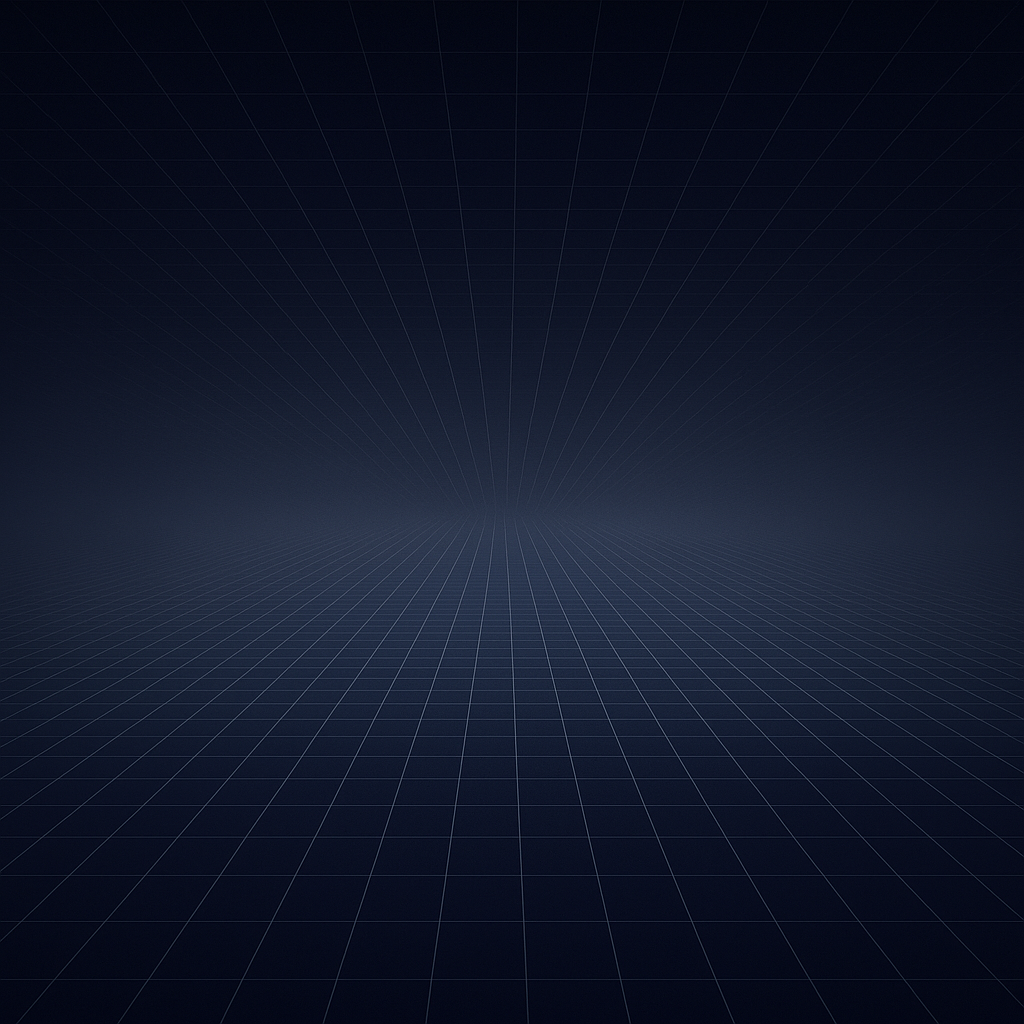
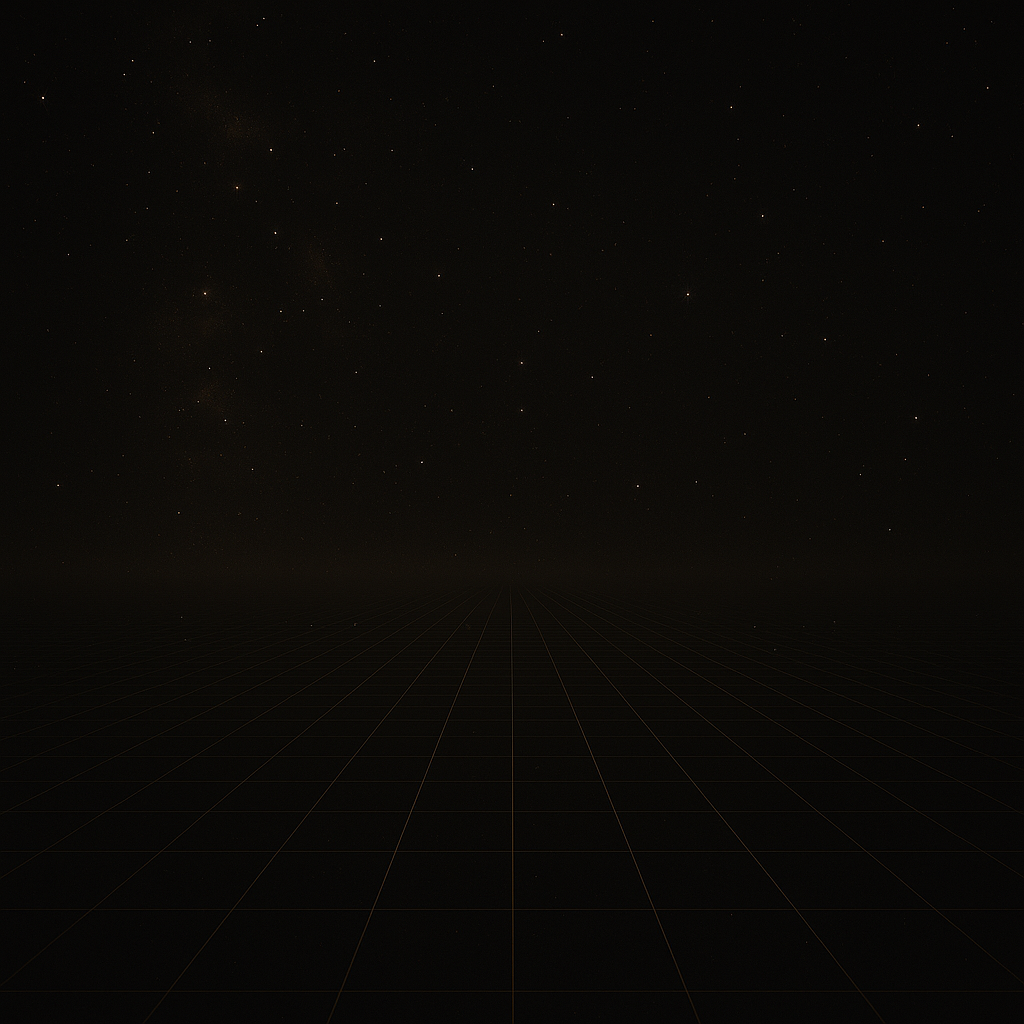
minor fix: settings(bg change) added

diff --git a/ui/Modal/setting-modal.tsx b/ui/Modal/setting-modal.tsx
@@ -1,15 +1,28 @@
 import { forwardRef, useImperativeHandle, useState } from "react";
 import { ModalRef } from "@/ui/Modal/modal.type";
 import { useModal } from "@/ui/Modal/modal.hook";
+import { useBgContext } from "@/ui/Components/context/bg-context";
+import clsx from "clsx";
+import Image from "next/image";
 
 export type PSettingModal = {
   isFirst: boolean;
 };
 
+const BgDescriptions = [
+  "Default",
+  "Purple Grid",
+  "Dark Universe",
+  "Purple Universe",
+  "Purple Spacial Grid",
+  "Red Universe",
+];
+
 const SettingModal = forwardRef<ModalRef, PSettingModal>(({ isFirst }, ref) => {
   const [isOpen, setIsOpen] = useState(false);
   const { closeModal } = useModal("SettingModal" as const);
   const [isClosing, setIsClosing] = useState(false);
+  const { setBgState, bgState } = useBgContext();
   const handleClose = () => {
     setIsClosing(true);
     setTimeout(() => {
@@ -30,22 +43,50 @@ const SettingModal = forwardRef<ModalRef, PSettingModal>(({ isFirst }, ref) => {
   return (
     isFirst && (
       <div
-        className={`fixed inset-0 z-50 bg-black/40 flex justify-center items-center ${isClosing && "animate-fade-out"}`}
+        className={`fixed inset-0 z-50 bg-transparent flex justify-center items-center ${isClosing && "animate-fade-out"}`}
         onClick={handleClose}
       >
         <div
-          className={`relative bg-gray-50 rounded-lg w-3/4 h-3/4 flex gap-4 text-black ${
+          className={`relative bg-white/10 backdrop-blur-md border border-white/20 shadow-xl rounded-lg w-3/4 flex gap-4 text-white ${
             isClosing ? "animate-scale-out" : "animate-scale-in"
           }`}
           onClick={(e) => e.stopPropagation()}
         >
           <button
             onClick={handleClose}
-            className="absolute cursor-pointer top-4 right-4 text-gray-500 hover:text-black dark:text-gray-400 dark:hover:text-white text-xl font-bold"
+            className="absolute cursor-pointer top-2 right-4 text-gray-500 hover:text-white text-xl font-bold"
             aria-label="Close"
           >
             ×
           </button>
+          <div className="flex flex-col w-full h-full p-6">
+            <h2 className="text-xl font-semibold mb-4">배경화면 선택</h2>
+            <div className="overflow-x-auto whitespace-nowrap space-x-4 flex">
+              {[0, 1, 2, 3, 4, 5].map((bg, index) => (
+                <div
+                  key={index}
+                  className={clsx(
+                    "inline-block w-48 h-28 rounded-lg overflow-hidden cursor-pointer border border-transparent hover:border-white transition-all relative",
+                    { "border-white": index === bgState },
+                  )}
+                  onClick={() => {
+                    setBgState(index);
+                  }}
+                >
+                  <Image
+                    src={`/grid-bg${bg}.png`}
+                    alt={`Background ${index + 1}`}
+                    width={400}
+                    height={300}
+                    className="w-full h-full object-cover"
+                  />
+                  <p className="text-white bg-black/40 px-2 py-1 text-sm absolute bottom-2 left-2 rounded">
+                    {BgDescriptions[index]}
+                  </p>
+                </div>
+              ))}
+            </div>
+          </div>
         </div>
       </div>
     )

diff --git a/ui/providers.tsx b/ui/providers.tsx
@@ -8,6 +8,7 @@ import { ModalProvider } from "@/ui/Modal/modal-context.provider";
 import { FolderRefProvider } from "@/ui/Components/context/folder-ref-context";
 import { NavContextProvider } from "@/ui/Components/context/nav-context";
 import { LoadingProvider } from "@/ui/Components/context/loading-context";
+import { BgContextProvider } from "@/ui/Components/context/bg-context";
 
 interface Props {
   children: ReactNode;
@@ -17,17 +18,19 @@ export default function Providers({ children }: Props) {
   return (
     <>
       <SessionProvider>
-        <LoadingProvider>
-          <NavContextProvider>
-            <FolderRefProvider>
-              <FileTreeProvider>
-                <ModalProvider>
-                  <ShortCutProvider>{children}</ShortCutProvider>
-                </ModalProvider>
-              </FileTreeProvider>
-            </FolderRefProvider>
-          </NavContextProvider>
-        </LoadingProvider>
+        <BgContextProvider>
+          <LoadingProvider>
+            <NavContextProvider>
+              <FolderRefProvider>
+                <FileTreeProvider>
+                  <ModalProvider>
+                    <ShortCutProvider>{children}</ShortCutProvider>
+                  </ModalProvider>
+                </FileTreeProvider>
+              </FolderRefProvider>
+            </NavContextProvider>
+          </LoadingProvider>
+        </BgContextProvider>
       </SessionProvider>
     </>
   );

diff --git a/app/page.tsx b/app/page.tsx
@@ -1,14 +1,26 @@
 "use client";
+import MainPage3D from "@/ui/MainPage/main-page-3d";
 import MainPage from "@/ui/MainPage/main-page";
+import { useSession } from "next-auth/react";
+import React from "react";
+import { useBgContext } from "@/ui/Components/context/bg-context";
 
 export default function Home() {
-  // const { data: session } = useSession();
-  // const isLoggedIn = !!session?.accessToken;
+  const { data: session } = useSession();
+  const isLoggedIn = !!session?.accessToken;
+  const { bgState } = useBgContext();
   return (
-    <div className="w-screen h-screen">
-      <main>
-        <MainPage />
-      </main>
-    </div>
+    <>
+      <div className="absolute inset-0 bg-gradient-to-b from-[#12161F] to-[#1A1E29] z-0" />
+      <div
+        className={`absolute inset-0 bg-cover bg-center opacity-80 z-0`}
+        style={{
+          backgroundImage: `url(/grid-bg${bgState}.png)`,
+        }}
+      />
+      <div className={`  w-screen h-screen`}>
+        <main>{isLoggedIn ? <MainPage3D /> : <MainPage />}</main>
+      </div>
+    </>
   );
 }

diff --git a/ui/Components/context/bg-context.tsx b/ui/Components/context/bg-context.tsx
@@ -1,0 +1,26 @@
+import { createContext, ReactNode, useContext, useState } from "react";
+
+interface BgContextType {
+  bgState: number;
+  setBgState: (state: number) => void;
+}
+
+const BgContext = createContext<BgContextType | null>(null);
+
+export const BgContextProvider = ({ children }: { children: ReactNode }) => {
+  const [bgState, setBgState] = useState(0);
+
+  return (
+    <BgContext.Provider value={{ bgState, setBgState }}>
+      {children}
+    </BgContext.Provider>
+  );
+};
+
+export const useBgContext = () => {
+  const context = useContext(BgContext);
+  if (!context) {
+    throw new Error("useContext must be used within a Provider");
+  }
+  return context;
+};

diff --git a/app/layout.tsx b/app/layout.tsx
@@ -24,8 +24,6 @@ export default function RootLayout({
         className={`antialiased dark:text-white text-white overflow-y-hidden`}
       >
         <Toaster position="bottom-center" />
-        <div className="absolute inset-0 bg-gradient-to-b from-[#12161F] to-[#1A1E29] z-0" />
-        <div className="absolute inset-0 bg-[url('/grid-bg2.png')] bg-cover bg-center opacity-80 z-0" />
         <Providers>
           <GlobalNav />
           {children}
